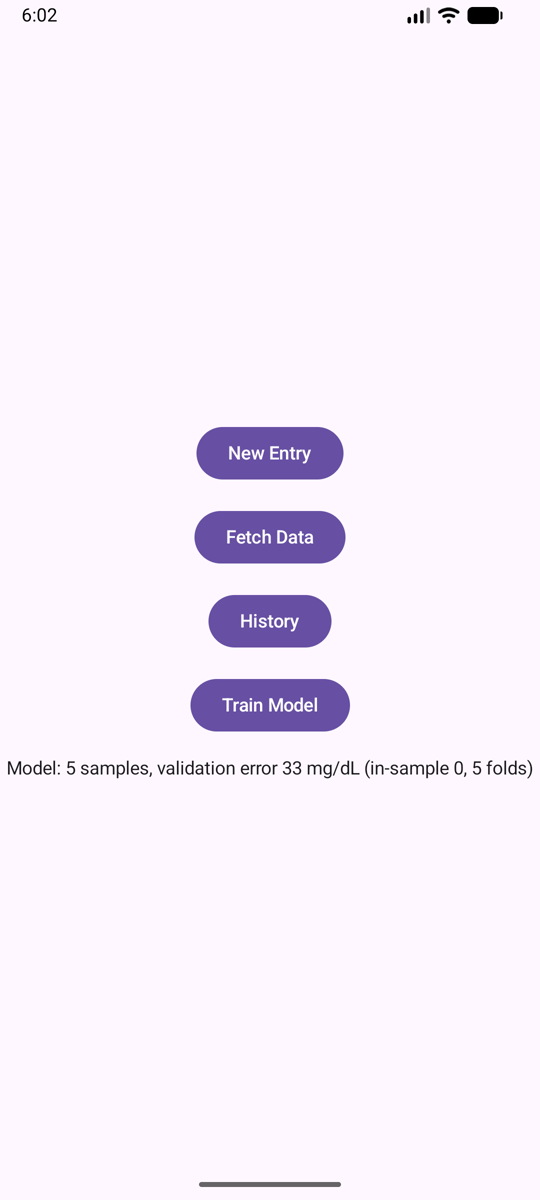
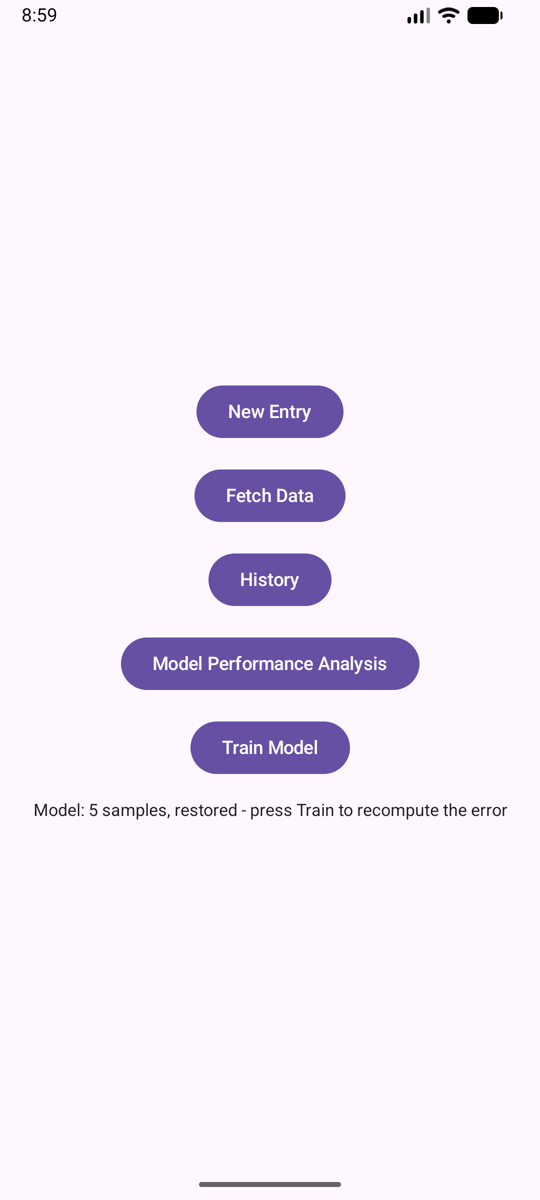
fix: stop showing an error figure that means nothing, and a verdict that never happened
The main screen reported "in-sample RMSE 0 mg/dL" after a restart. Zero is exactly
what an in-sample fit reports when the model has as many parameters as rows, so the
figure was meaningless in the one situation it was shown - and it was long enough
to run off both edges of the screen, which is how it got noticed.

The restored state now says only what is known: the sample count, that the model
came back after a restart, and that Train will recompute the error. The status line
is inset, centred and a size smaller.

The analysis card announced "Not the model's meal on the latest one" whenever no
streak was running - including when every meal was undecided because the
sensitivity estimate was smaller than its own error bar. That asserts a loss the
data never showed. It now distinguishes "Nothing decided yet" from an actual loss.

Screenshots and their alt text regenerated for both changes.

Changed region(s): [[0.2074, 0.3083, 0.9778, 0.6783], [0.0, 0.6167, 0.2963, 0.6783], [0.0296, 0.0, 0.1185, 0.0308]]

diff --git a/app/src/main/java/com/example/glpred/ui/AnalysisScreen.kt b/app/src/main/java/com/example/glpred/ui/AnalysisScreen.kt
@@ -128,7 +128,7 @@ private fun CountsCard(analysis: ModelVsHuman) {
 private fun RatioCard(analysis: ModelVsHuman) {
     Card(modifier = Modifier.fillMaxWidth(), elevation = CardDefaults.cardElevation(defaultElevation = 2.dp)) {
         Column(modifier = Modifier.padding(16.dp), verticalArrangement = Arrangement.spacedBy(4.dp)) {
-            SectionTitle("Units per carb unit, by hour")
+            SectionTitle("Insulin-Carb-Ratio, throughout the day")
             val rows = analysis.ratioByHour
             if (rows.isEmpty()) {
                 Line("No meals with carb units recorded yet.", muted = true)
@@ -147,7 +147,7 @@ private fun RatioCard(analysis: ModelVsHuman) {
 private fun ConvergenceCard(analysis: ModelVsHuman) {
     Card(modifier = Modifier.fillMaxWidth(), elevation = CardDefaults.cardElevation(defaultElevation = 2.dp)) {
         Column(modifier = Modifier.padding(16.dp), verticalArrangement = Arrangement.spacedBy(4.dp)) {
-            SectionTitle("Whose dose was closer to 90?")
+            SectionTitle("Model vs User performance?")
             val score = analysis.counterfactual
             if (!score.hasEvidence) {
                 Line(
@@ -156,11 +156,12 @@ private fun ConvergenceCard(analysis: ModelVsHuman) {
                 )
             } else {
                 val streak = score.currentStreak
+                val nothingDecided = score.modelWins == 0 && score.humanWins == 0
                 Text(
-                    text = if (streak == 0) {
-                        "Not the model's meal on the latest one"
-                    } else {
-                        "The model was closer on the last $streak " +
+                    text = when {
+                        nothingDecided -> "Nothing decided yet"
+                        streak == 0 -> "Not the model's meal on the latest one"
+                        else -> "The model was closer on the last $streak " +
                             "meal${if (streak == 1) "" else "s"} in a row"
                     },
                     fontSize = 15.sp,

diff --git a/app/src/main/java/com/example/glpred/ui/DiaryViewModel.kt b/app/src/main/java/com/example/glpred/ui/DiaryViewModel.kt
@@ -383,8 +383,8 @@ class DiaryViewModel(application: Application) : AndroidViewModel(application) {
                         "Model: ${result.samples4h} samples, validation error ${validation.toInt()} mg/dL " +
                             "(in-sample ${result.rmse4h.toInt()}, ${result.looFolds4h} folds)"
                     result.restoredAtStartup ->
-                        "Model: ${result.samples4h} samples, in-sample RMSE ${result.rmse4h.toInt()} mg/dL " +
-                            "(restored after restart - press Train to recompute validation)"
+                        "Model: ${result.samples4h} samples, restored - press Train to recompute " +
+                            "the error"
                     else ->
                         "Model: ${result.samples4h} samples, in-sample RMSE ${result.rmse4h.toInt()} mg/dL " +
                             "- validation needs one more labelled entry"

diff --git a/app/src/main/java/com/example/glpred/MainActivity.kt b/app/src/main/java/com/example/glpred/MainActivity.kt
@@ -14,7 +14,9 @@ import androidx.compose.material3.Text
 import androidx.compose.runtime.Composable
 import androidx.compose.ui.Alignment
 import androidx.compose.ui.Modifier
+import androidx.compose.ui.text.style.TextAlign
 import androidx.compose.ui.unit.dp
+import androidx.compose.ui.unit.sp
 import androidx.lifecycle.viewmodel.compose.viewModel
 import androidx.navigation.compose.NavHost
 import androidx.navigation.compose.composable
@@ -148,7 +150,12 @@ fun MainScreen(
                 Text(text = if (isTraining) "Training..." else "Train Model")
             }
 
-            Text(text = trainingStatus)
+            Text(
+                text = trainingStatus,
+                modifier = Modifier.padding(horizontal = 24.dp),
+                fontSize = 13.sp,
+                textAlign = TextAlign.Center
+            )
         }
     }
 }

diff --git a/README.md b/README.md
@@ -19,14 +19,14 @@ Since I was bothered by the unfinished state for years, I decided to finish it i
 
 <table>
   <tr>
-    <td align="center" width="33%"><img src="images/main.png" width="230" alt="Main menu with New Entry, Fetch Data, History and Train Model buttons, plus a status line reporting the trained model"><br><sub><b>Main menu</b><br>Train, and see how much the model can be trusted</sub></td>
+    <td align="center" width="33%"><img src="images/main.png" width="230" alt="Main menu with New Entry, Fetch Data, History, Model Performance Analysis and Train Model buttons, plus a status line reporting the trained model"><br><sub><b>Main menu</b><br>Train, and see how much the model can be trusted</sub></td>
     <td align="center" width="33%"><img src="images/enter-data.png" width="230" alt="Enter data screen with date, time, blood glucose, carbohydrates and long-acting insulin fields"><br><sub><b>Record a meal</b><br>No short-acting dose yet — that is decided next</sub></td>
     <td align="center" width="33%"><img src="images/review.png" width="230" alt="Review and prediction screen showing the suggested bolus, the 4 h prediction, the model's validation error, a time-coverage warning and the disclaimer"><br><sub><b>Review &amp; prediction</b><br>The suggestion, its error, and why it may not be trustworthy</sub></td>
   </tr>
   <tr>
     <td align="center" width="33%"><img src="images/history.png" width="230" alt="History list of past meals with Trainable and Pending status, the injected dose and the predicted 4 h value beside the actual one"><br><sub><b>History</b><br>Which meals are trainable, and what actually happened</sub></td>
     <td align="center" width="33%"><img src="images/fetch-data.png" width="230" alt="Fetch data screen showing the stored CGM span from first to last reading and the total row count"><br><sub><b>Import CGM data</b><br>File picker, reports the time span the import covers</sub></td>
-    <td align="center" width="33%"><img src="images/analysis.png" width="230" alt="Analysis screen: how many meals carry a verified 4 h value and the average misprediction, a chart of units per carb unit by hour of day with the user's doses as dots and the model's estimate as a flat line, and a row of coloured squares showing whether the model's advice pointed the right way"><br><sub><b>Analysis</b><br>ICR by hour, and indicator for when the model begins outperforming the user</sub></td>
+    <td align="center" width="33%"><img src="images/analysis.png" width="230" alt="Analysis screen: how many meals carry a verified 4 h value and the average misprediction, a chart of units per carb unit by hour of day with the user's doses as dots and the model's estimate as a flat line, and a strip of coloured squares showing meal by meal whether the model's dose was closer to the target than the user's"><br><sub><b>Analysis</b><br>ICR by hour, and indicator for when the model begins outperforming the user</sub></td>
   </tr>
 </table>
 
